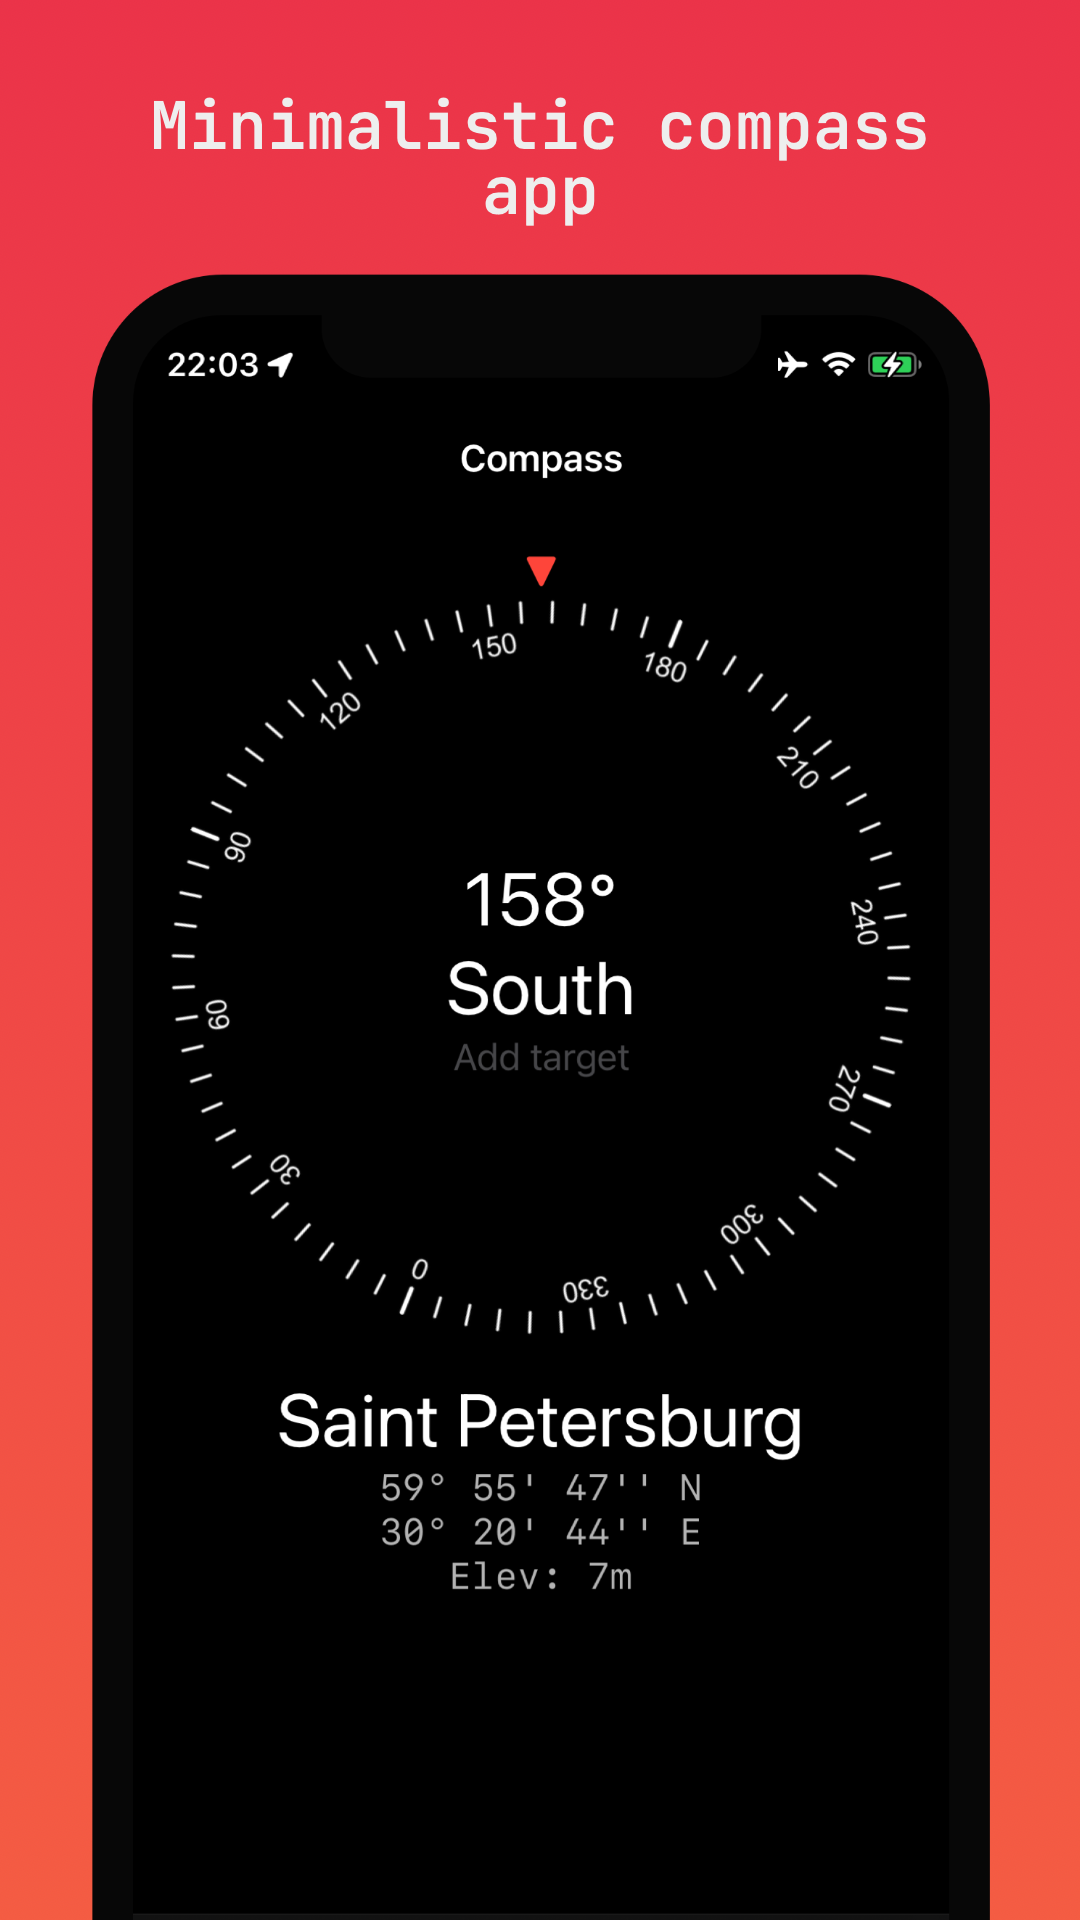
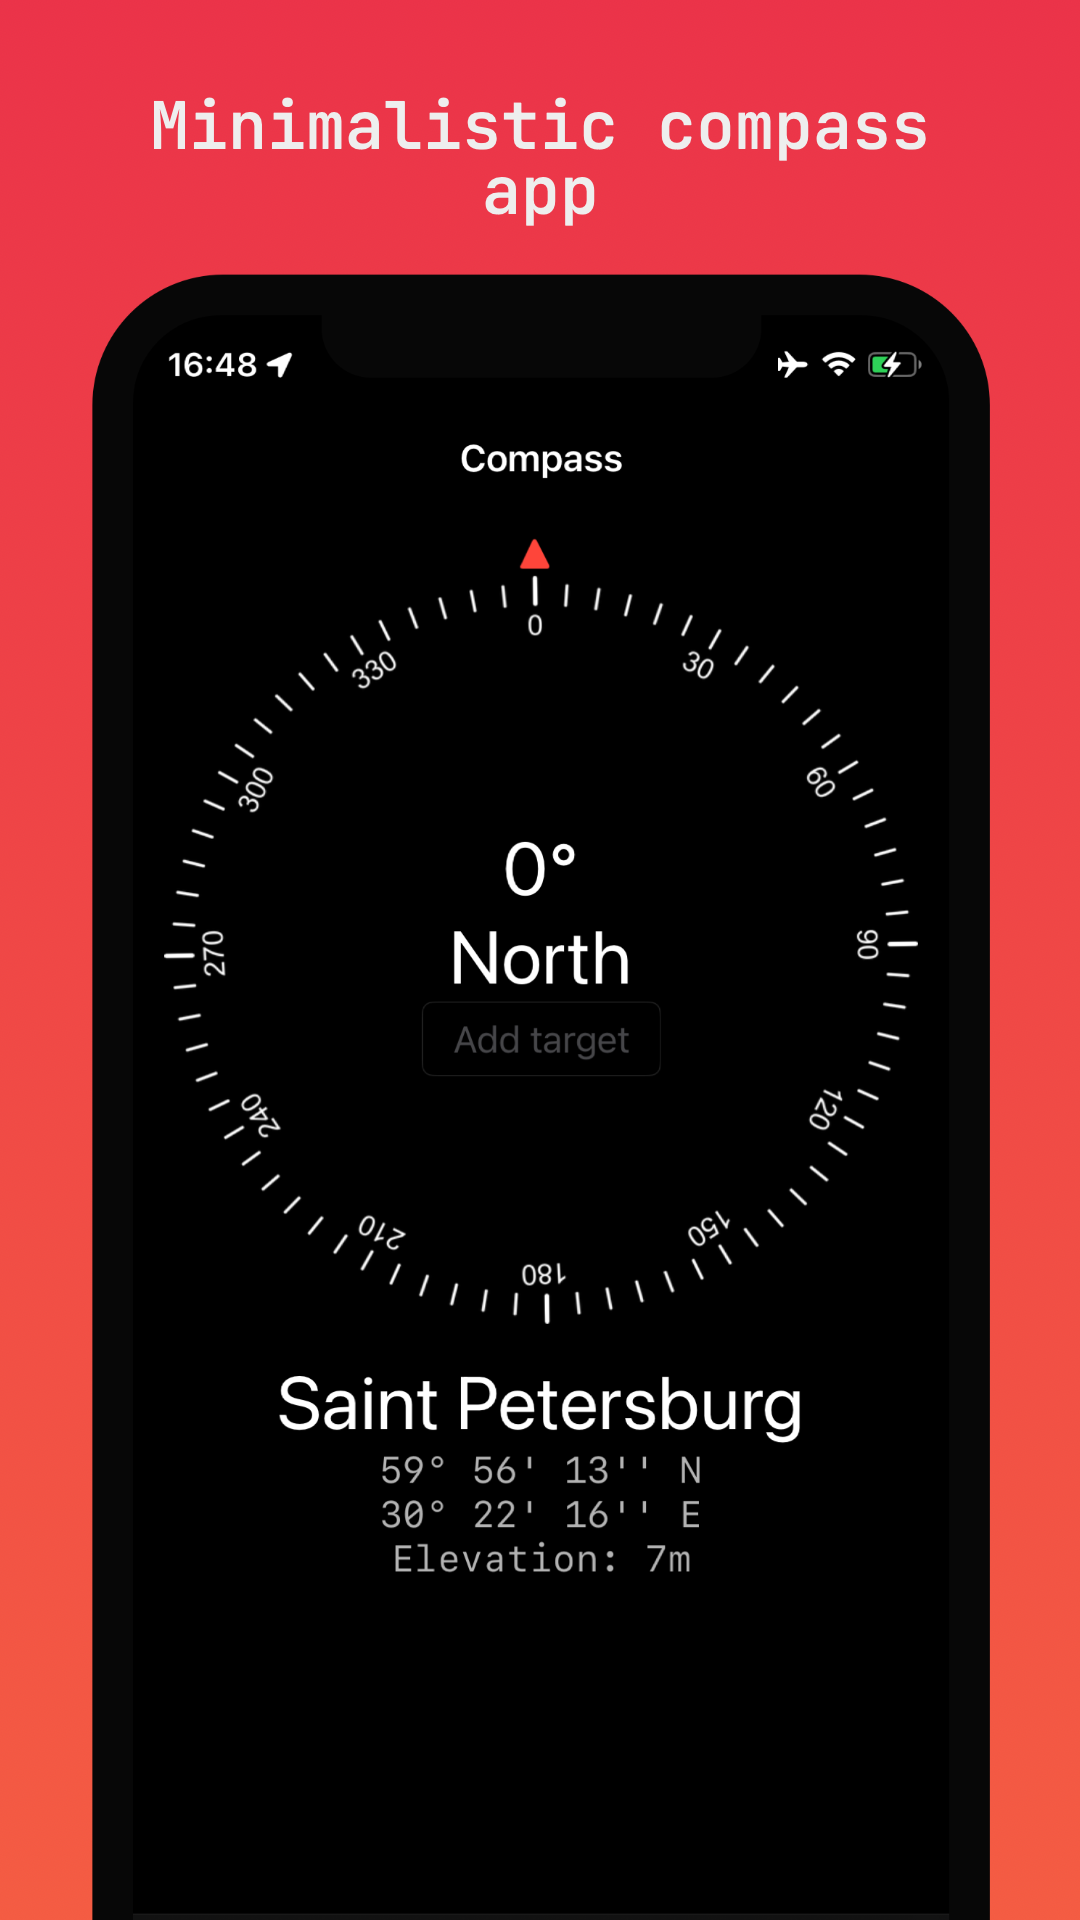
Final commit

diff --git a/CompassApp/CompassModule/CompassViewController.swift b/CompassApp/CompassModule/CompassViewController.swift
@@ -50,9 +50,12 @@ final class CompassViewController: UIViewController {
     
     private let targetTextField: UITextField = {
         let textField = UITextField()
-        textField.placeholder = "Add target"
         textField.textAlignment = .center
+        textField.borderStyle = .roundedRect
+        textField.placeholder = "Add target"
+        textField.backgroundColor = .clear
         textField.textColor = .systemRed
+        textField.tintColor = .systemRed
         return textField
     }()
     
@@ -108,10 +111,10 @@ private extension CompassViewController {
     
     func configureCompassComponents() {
         let angleArrow = UIImageView()
-        angleArrow.image = UIImage(systemName: "arrowtriangle.down.fill")
+        angleArrow.image = UIImage(systemName: "arrowtriangle.up.fill")
         angleArrow.translatesAutoresizingMaskIntoConstraints = false
         angleArrow.tintColor = .systemRed
-        view.addSubview(angleArrow)
+        compassImageView.addSubview(angleArrow)
         
         view.addSubview(compassImageView)
         NSLayoutConstraint.activate([

diff --git a/CompassApp/CompassModule/CompassPresenter.swift b/CompassApp/CompassModule/CompassPresenter.swift
@@ -108,7 +108,7 @@ extension CompassPresenterImp: CLLocationManagerDelegate {
         
         view?.updateCoordinates(lat: latitude.formatLatitude(),
                                 lon: longitude.formatLongitude(),
-                                alt: String(format: "%@ %.0fm", "Elev:", altitude))
+                                alt: String(format: "%@ %.0fm", "Elevation:", altitude))
         
         
         CLGeocoder().reverseGeocodeLocation(location) { placemarks, error in

diff --git a/README.md b/README.md
@@ -18,4 +18,6 @@ iOS compass app
 - UNIT tests
 
 ## Preview
-[![](https://markdown-videos.deta.dev/youtube/Pnl05yI4Gnw)](https://youtu.be/Pnl05yI4Gnw)
+[![](https://markdown-videos.deta.dev/youtube/vztqU5eROEc)](https://youtu.be/vztqU5eROEc)
+
+###### Screenshots: [App Store Screenshots Generator](https://screenshots.pro) , App icon: [Bakery](https://apps.apple.com/nl/app/bakery-simple-icon-creator/id1575220747?mt=12)
